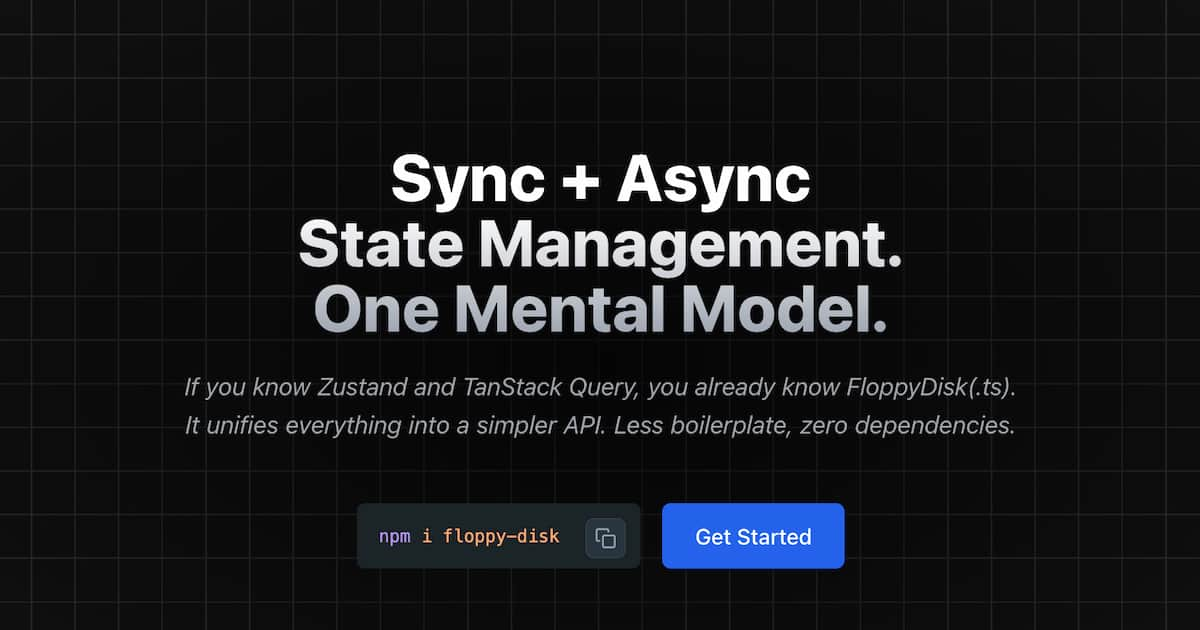
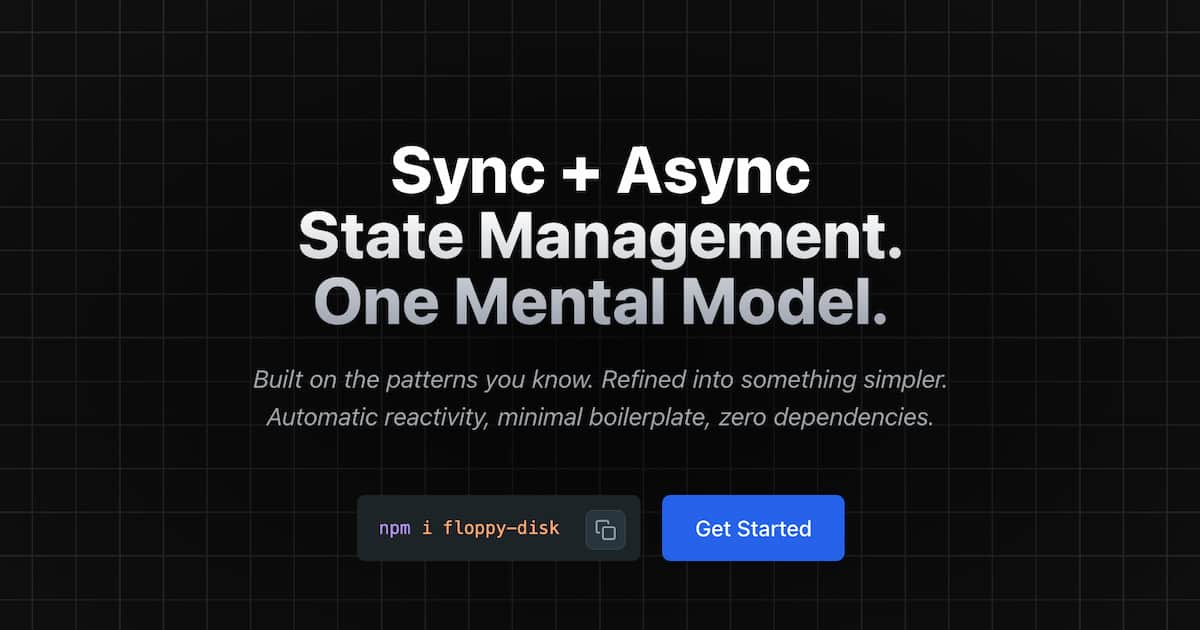
feat: update homepage hero section

diff --git a/pages/_HomeBanner.tsx b/pages/_HomeBanner.tsx
@@ -29,12 +29,12 @@ export default function Banner({ children }: { children: ReactNode }) {
           </h1>
           <div className="pt-4 italic opacity-70 sm:pt-5 sm:text-lg xl:pt-7 xl:text-xl">
             <div>
-              If you know Zustand and TanStack Query,{' '}
-              <span className="block md:inline-block">you already know FloppyDisk(.ts).</span>
+              {'Built on the patterns you know. '}
+              <span className="block sm:inline-block">Refined into something simpler.</span>
             </div>
             <div>
-              It unifies everything into a simpler API.{' '}
-              <span className="block md:inline-block">Less boilerplate, zero dependencies.</span>
+              Automatic reactivity, minimal boilerplate,{' '}
+              <span className="block sm:inline-block">zero dependencies.</span>
             </div>
           </div>
 
@@ -61,7 +61,7 @@ export default function Banner({ children }: { children: ReactNode }) {
 
       <div
         className={cn(
-          'absolute -top-1 sm:-top-2 md:-top-2.5 xl:-top-0.5',
+          'absolute -top-1 sm:-top-1 md:-top-2.5 xl:-top-1',
           'z-[-1] h-[calc(100%_+_32px)] w-[calc(100%_+_32px)] translate-x-0 bg-grid',
         )}
       />
